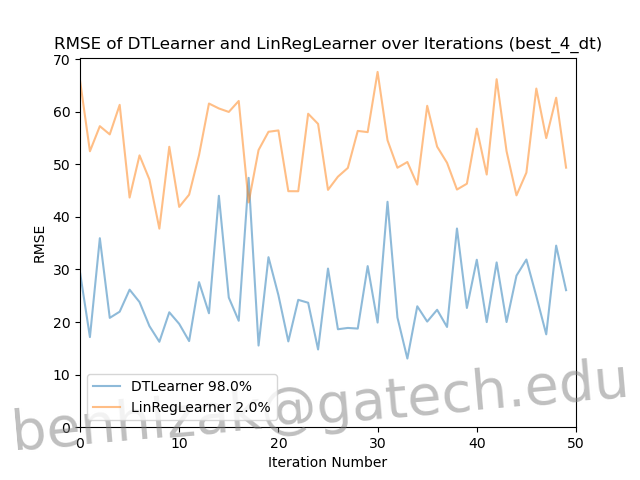
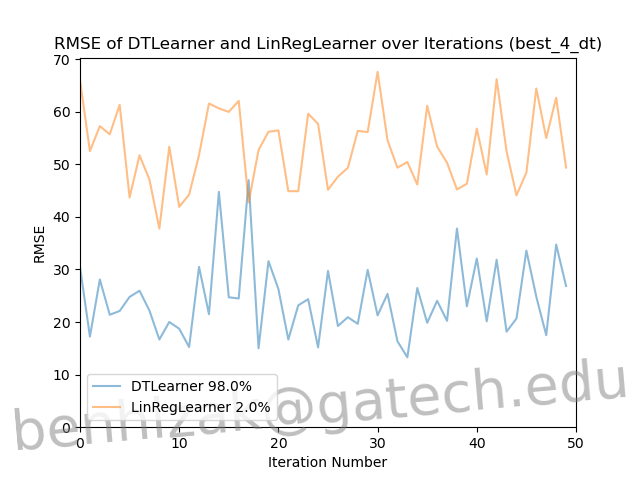
update

diff --git a/ML4T/defeat_learners/gen_data.py b/ML4T/defeat_learners/gen_data.py
@@ -84,31 +84,12 @@ def best_4_dt(seed=1489683273):
         x[i, 1] = 5 * np.random.random()
         x[i, 2] = -2 * np.random.random()
         x[i, 3] = 10 * np.random.random()
-        # #
-        # if i <= 100:
-        #     x[i, 0] = np.random.random() * 1
-        #     x[i, 1] = 5 * np.random.random() * 1
-        #     x[i, 2] = 2 * np.random.random() * 1
-        #     x[i, 3] = 10 * np.random.random() * 1
-        #
-        #     y[i] = math.log(x[i, 0]) + math.log(x[i,1]) + math.log(x[i, 2])
-        # elif (i > 100 and i <= 200):
-        #     x[i, 0] = np.random.random() * 50
-        #     x[i, 1] = 5 * np.random.random() * 50
-        #     x[i, 2] = -2 * np.random.random() * 50
-        #     x[i, 3] = 10 * np.random.random() * 50
-        #     y[i] = 1/-1* pow(x[i, 0],2 ) + 1/4*x[i,1] + 1/pow(x[i, 2], 2)
-        # else:
-        #     x[i, 0] = np.random.random() * 500
-        #     x[i, 1] = 5 * np.random.random() * 500
-        #     x[i, 2] = -2 * np.random.random() * 500
-        #     x[i, 3] = 10 * np.random.random() * 500
-        #     y[i] = pow(x[i, 0], 3) + 10*x[i,1] + pow(x[i, 2], 3)
+
         x[i, 0] = pow(x[i, 0], 2)
         x[i, 1] = pow(x[i, 1], 4)
-        # x[i, 2] = pow(x[i, 2], 6)
 
-        y[i] = x[i, 0] * x[i, 1]
+
+        y[i] = x[i, 0] * x[i, 1] + x[i,2] + x[i,3]
     return x, y
 
 
